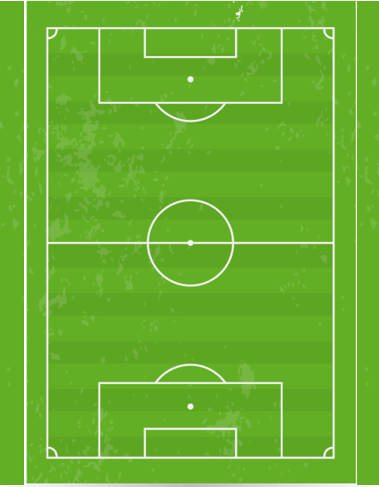
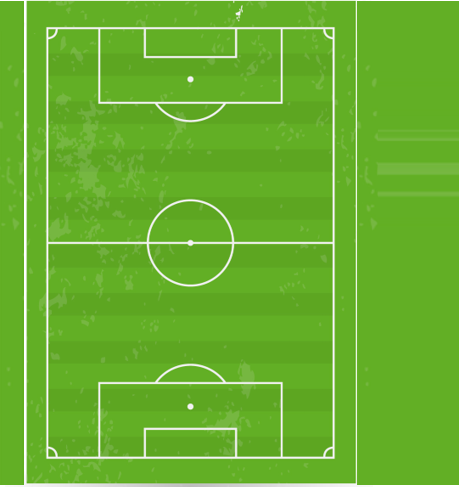
fix: amplía imagen del campograma y ajusta el aspect-ratio para mostrar el margen derecho extra sin estirar

diff --git a/frontend/style.css b/frontend/style.css
@@ -488,8 +488,8 @@ body {
 
 .pitch-svg-canvas {
   width: 100%;
-  max-width: 554px;
-  aspect-ratio: 554 / 811;
+  max-width: 459px;
+  aspect-ratio: 459 / 487;
   position: relative;
   background-image: url('pitch.png');
   background-size: 100% 100%;
@@ -498,8 +498,8 @@ body {
 }
 
 .pitch-svg-canvas.wide-slide-pitch {
-  max-width: 554px;
-  aspect-ratio: 554 / 811;
+  max-width: 459px;
+  aspect-ratio: 459 / 487;
 }
 
 .pitch-trapezoid {
@@ -1137,8 +1137,8 @@ body {
 
 .pitch-svg-canvas {
   width: 100%;
-  max-width: 520px;
-  aspect-ratio: 554 / 811;
+  max-width: 459px;
+  aspect-ratio: 459 / 487;
   position: relative;
   background-image: url('pitch.png');
   background-size: 100% 100%;
